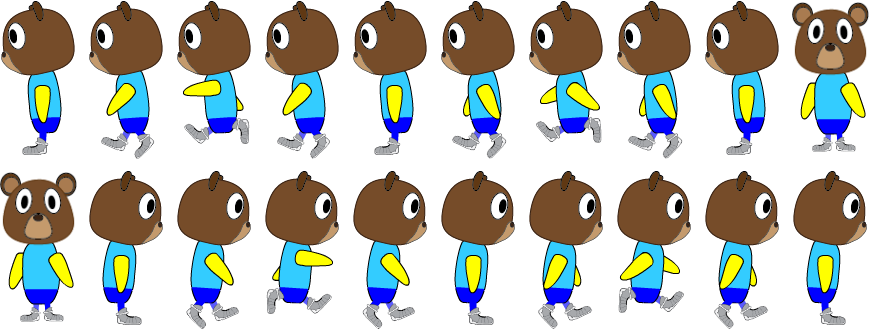
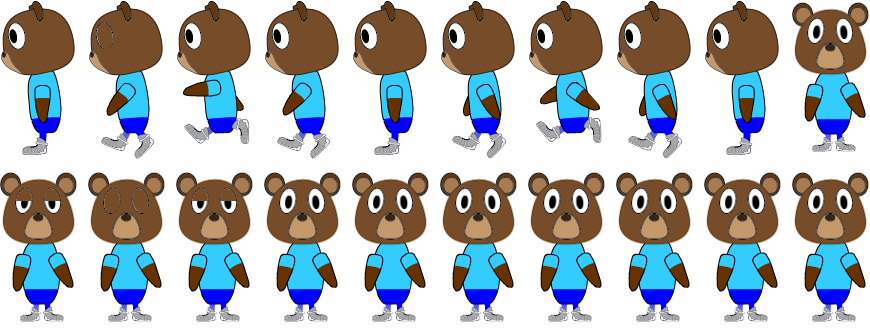
Updated art for kanye and fruit, removed old sprite, eliminated extra code

diff --git a/boardSetup/js/main.js b/boardSetup/js/main.js
@@ -1,15 +1,15 @@
 
 var tween;
-var kirby;
 var kanye;
 var tween1;
 var tween2;
 var cursors;
 var redFruit;
+var explosions;
 var goldFruit;
-var SpikeFruit;
+var BombFruit;
 var fruitsGroup;
-var kirbyScoreText;
+var kanyeScoreText;
 var fallingTimer = 0;
 
 
@@ -19,20 +19,11 @@ IndividualFruit = function(game, x, y, name){
   this.anchor.setTo(0.5,0);
   this.hasBounced = false;
 
-  //when checkWorldBounds is true this.events.onOutOfBounds is enabled
-  // this.checkWorldBounds = true;
-  // this.events.onOutOfBounds.add(fruitOut, this);
-
   //adds this existing sprite to gameboard
   game.add.existing(this);
 
-  //makes (currently) GLOBAL gravity effect all fruits
+  //allows (currently) GLOBAL gravity effect all fruits
   game.physics.enable(this);
-  // var tween = game.add.tween(this).to({alpha: 0}, 1000, Phaser.Easing.Linear.None, false);
-  // tween.onComplete.add(function(fruit){
-  //           fruit.kill()
-  //           fruit.alpha = 100;
-  //         });
 
 };
 
@@ -77,27 +68,25 @@ GoldFruit = function(game, x, y, name){
   this.value = 5;
   this.speedMultiplier = 2;
   console.log("GoldFruit", this)
-
 };
 
 GoldFruit.prototype = Object.create(IndividualFruit.prototype);
 GoldFruit.prototype.constructor = GoldFruit;
 
 //////////////////////////////////////////////
-//Sprite ==> Individual Fruit ==> SpikeFruit//
+//Sprite ==> Individual Fruit ==> BombFruit//
 //////////////////////////////////////////////
 
-SpikeFruit = function(game, x, y, name){
+BombFruit = function(game, x, y, name){
   IndividualFruit.call(this, game, x, y, name);
 
   this.value = -5;
   this.speedMultiplier = 0.5;
-  console.log("SpikeFruit", this)
-
+  console.log("BombFruit", this)
 };
 
-SpikeFruit.prototype = Object.create(IndividualFruit.prototype);
-SpikeFruit.prototype.constructor = SpikeFruit;
+BombFruit.prototype = Object.create(IndividualFruit.prototype);
+BombFruit.prototype.constructor = BombFruit;
 
 
 Player = function(game, x, y, name){
@@ -116,13 +105,12 @@ Player = function(game, x, y, name){
   this.maxSpeed = 300;
 
   this.physicsBodyType = Phaser.Physics.ARCADE;
-}
+};
+
 Player.prototype = Object.create(Phaser.Sprite.prototype);
 Player.prototype.constructor = Player;
 
-
 Player.prototype.setSpeed = function(multiplier){
-
   //needs max speed property
   this.speed *= multiplier;
   this.game.time.events.add(Phaser.Timer.SECOND * 2, function(){
@@ -130,21 +118,20 @@ Player.prototype.setSpeed = function(multiplier){
   }, this);
 };
 
-
 Fruits = function (game) {
   Phaser.Group.call(this, game);
   this.enableBody = true;
   this.physicsBodyType = Phaser.Physics.ARCADE;
 
   for (var x = 0; x < 3; x++){
-      var fruit1 = new RedFruit(game, x*100, 10, 'redFruit');
-      var fruit2 = new GoldFruit(game, x*150, 10, 'goldFruit');
-      var fruit3 = new SpikeFruit(game, x*300, 10, 'spikeFruit');
+    var fruit1 = new RedFruit(game, x*100, 10, 'redFruit');
+    var fruit2 = new GoldFruit(game, x*150, 10, 'goldFruit');
+    var fruit3 = new BombFruit(game, x*300, 10, 'bombFruit');
 
-      this.add(fruit1);
-      this.add(fruit2);
-      this.add(fruit3);
-    }
+    this.add(fruit1);
+    this.add(fruit2);
+    this.add(fruit3);
+  };
 
   this.setAll('checkWorldBounds', true);
   this.setAll('body.collideWorldBounds', true);
@@ -154,75 +141,45 @@ Fruits = function (game) {
 Fruits.prototype = Object.create(Phaser.Group.prototype);
 Fruits.prototype.constructor = Fruits;
 
-
-
 var GameState = {
   preload: function(){
     game.load.image('background', 'assets/forrest_background.png');
-    game.load.image('kirby', 'assets/kirby.png');
     game.load.image('redFruit', 'assets/apple.png')
     game.load.image('goldFruit', 'assets/goldApple.png')
-    game.load.image('watermellon', 'assets/watermellon.png')
-    game.load.image('spikeFruit', 'assets/spikeBall.png')
+    game.load.image('bombFruit', 'assets/bombFruit.png')
     game.load.spritesheet('scott', 'assets/scottpilgrim_test864x280.png', 864 / 8 , 280 / 2, 16)
     game.load.spritesheet('kaboom', 'assets/explode.png', 128, 128);
-
     game.load.spritesheet('kanye', 'assets/bear_animation_test.png',870/10,166, 20,1,1);
-
   },
 
   create:function(){
     //setup game background, physics, and gravity
     game.background = game.add.sprite(0, 0, 'background');
     game.physics.startSystem(Phaser.Physics.ARCADE);
-    // game.physics.arcade.gravity.y = 100;
-
-
-
-
-    kirby = new Player(game, game.world.centerX, 350, 'kirby');
-    kirby.scale.setTo(0.25, 0.25);
-    console.log('kirby', kirby);
-    //setup score texts
-    kirbyScoreText = game.add.text(kirby.body.x - 25, kirby.body.y -60, 'Kirby: 0', { fontSize: '14px', fill: '#000' });
 
     kanye = new Player(game, 500, 350, 'kanye');
+    kanyeScoreText = game.add.text(16, 16, 'Kanye: 0', { fontSize: '14px', fill: '#000' });
 
-    //to be added to the players prototype next
-    // var walkright = kanye.animations.add('walkright', [11, 12, 13, 14, 15, 16, 17, 18], 10 , true);
     var walkleft = kanye.animations.add('walkleft', [0, 1, 2, 3, 4, 5, 6, 7] , 10, true);
-    var stand = kanye.animations.add('stand', [9] , 1, true);
+    //var stand = kanye.animations.add('stand', [9, 10, 11, 12, 13, 14, 15, 16] , 10, true);
+    var stand = kanye.animations.add('stand', [15] , 1, true);
 
-    fruitsGroup = new Fruits(game); //all code below condensed into ^
-
-    // redFruit = new RedFruit(game, 100, 10, 'redFruit');
-    // goldFruit = new GoldFruit(game, 200, 10, 'goldFruit');
-    // spikeFruit = new SpikeFruit(game, 300, 10, 'spikeFruit');
-
-    // fruitsGroup = game.add.group();
-    // fruitsGroup.add(redFruit);
-    // fruitsGroup.add(goldFruit);
-    // fruitsGroup.add(spikeFruit);
-    // fruitsGroup.setAll('body.collideWorldBounds', true);
-    // fruitsGroup.setAll('body.bounce.y', 0.2);
-
+    //setup fruits group
+    fruitsGroup = new Fruits(game);
     console.log("fruitsGroup", fruitsGroup);
 
-    //set up cursor responses
-    cursors = game.input.keyboard.createCursorKeys(); //arrow keys
-
-
-        //  An explosion pool
+    //  An explosion pool
     explosions = game.add.group();
     explosions.createMultiple(3, 'kaboom');
     explosions.forEach(setupFruitExplosion, this);
 
+    //set up cursor responses
+    cursors = game.input.keyboard.createCursorKeys(); //arrow keys
 
   },
 
   update:function(){
 
-    game.physics.arcade.overlap(fruitsGroup, kirby, fruitCatchHandler, fruitNoBounced, this)
     game.physics.arcade.overlap(fruitsGroup, kanye, fruitCatchHandler, fruitNoBounced, this)
 
     fruitsGroup.forEach(function(fruit){
@@ -241,32 +198,28 @@ var GameState = {
     // var bouncePhaseEnd = furit.body.onFloor() && furit.hasBounced;
 
     if (game.time.now > fallingTimer){
-      // console.log("game.time.now", game.time.now);
-      // console.log("fallingTimer", fallingTimer)
       fruitFalls();
       reviveFruit();
       fallingTimer += 2000;
-    }
-
+    };
     kanye.body.velocity.x = 0;
+
     if(cursors.left.isDown){
       kanye.scale.x = 1;
-
       kanye.animations.play('walkleft');
       kanye.body.velocity.x = -kanye.speed;
-
     };
+
     if(cursors.right.isDown){
-      kanye.body.velocity.x = kanye.speed;
       kanye.scale.x = -1;
       kanye.animations.play('walkleft');
+      kanye.body.velocity.x = kanye.speed;
     };
 
     if(!cursors.right.isDown && !cursors.left.isDown){
       kanye.animations.play('stand');
-    }
+    };
 
-    kirbyScoreText.position.x = kirby.body.x + 17;
   }
 
 };
@@ -296,16 +249,17 @@ function reviveFruit() {
 function fruitCatchHandler(player, fruit){
   console.log("player in collision", player);
 
-  if(fruit.value === -5){
+  if(fruit.key === "bombFruit"){
     var explosion = explosions.getFirstExists(false);
     explosion.reset(fruit.body.x, fruit.body.y);
-    explosion.play('kaboom', 30, false, true);  console.log("fruit in collision", fruit);
+    explosion.play('kaboom', 30, false, true);
+    console.log("fruit in collision", fruit);
   }
 
   console.log("fruit.value in collision", fruit.value);
   player.score += fruit.value;
   player.setSpeed(fruit.speedMultiplier);
-  kirbyScoreText.text = 'Kirby: ' + kirby.score;
+  kanyeScoreText.text = 'Kanye: ' + kanye.score;
   fruit.kill();
 }
 
